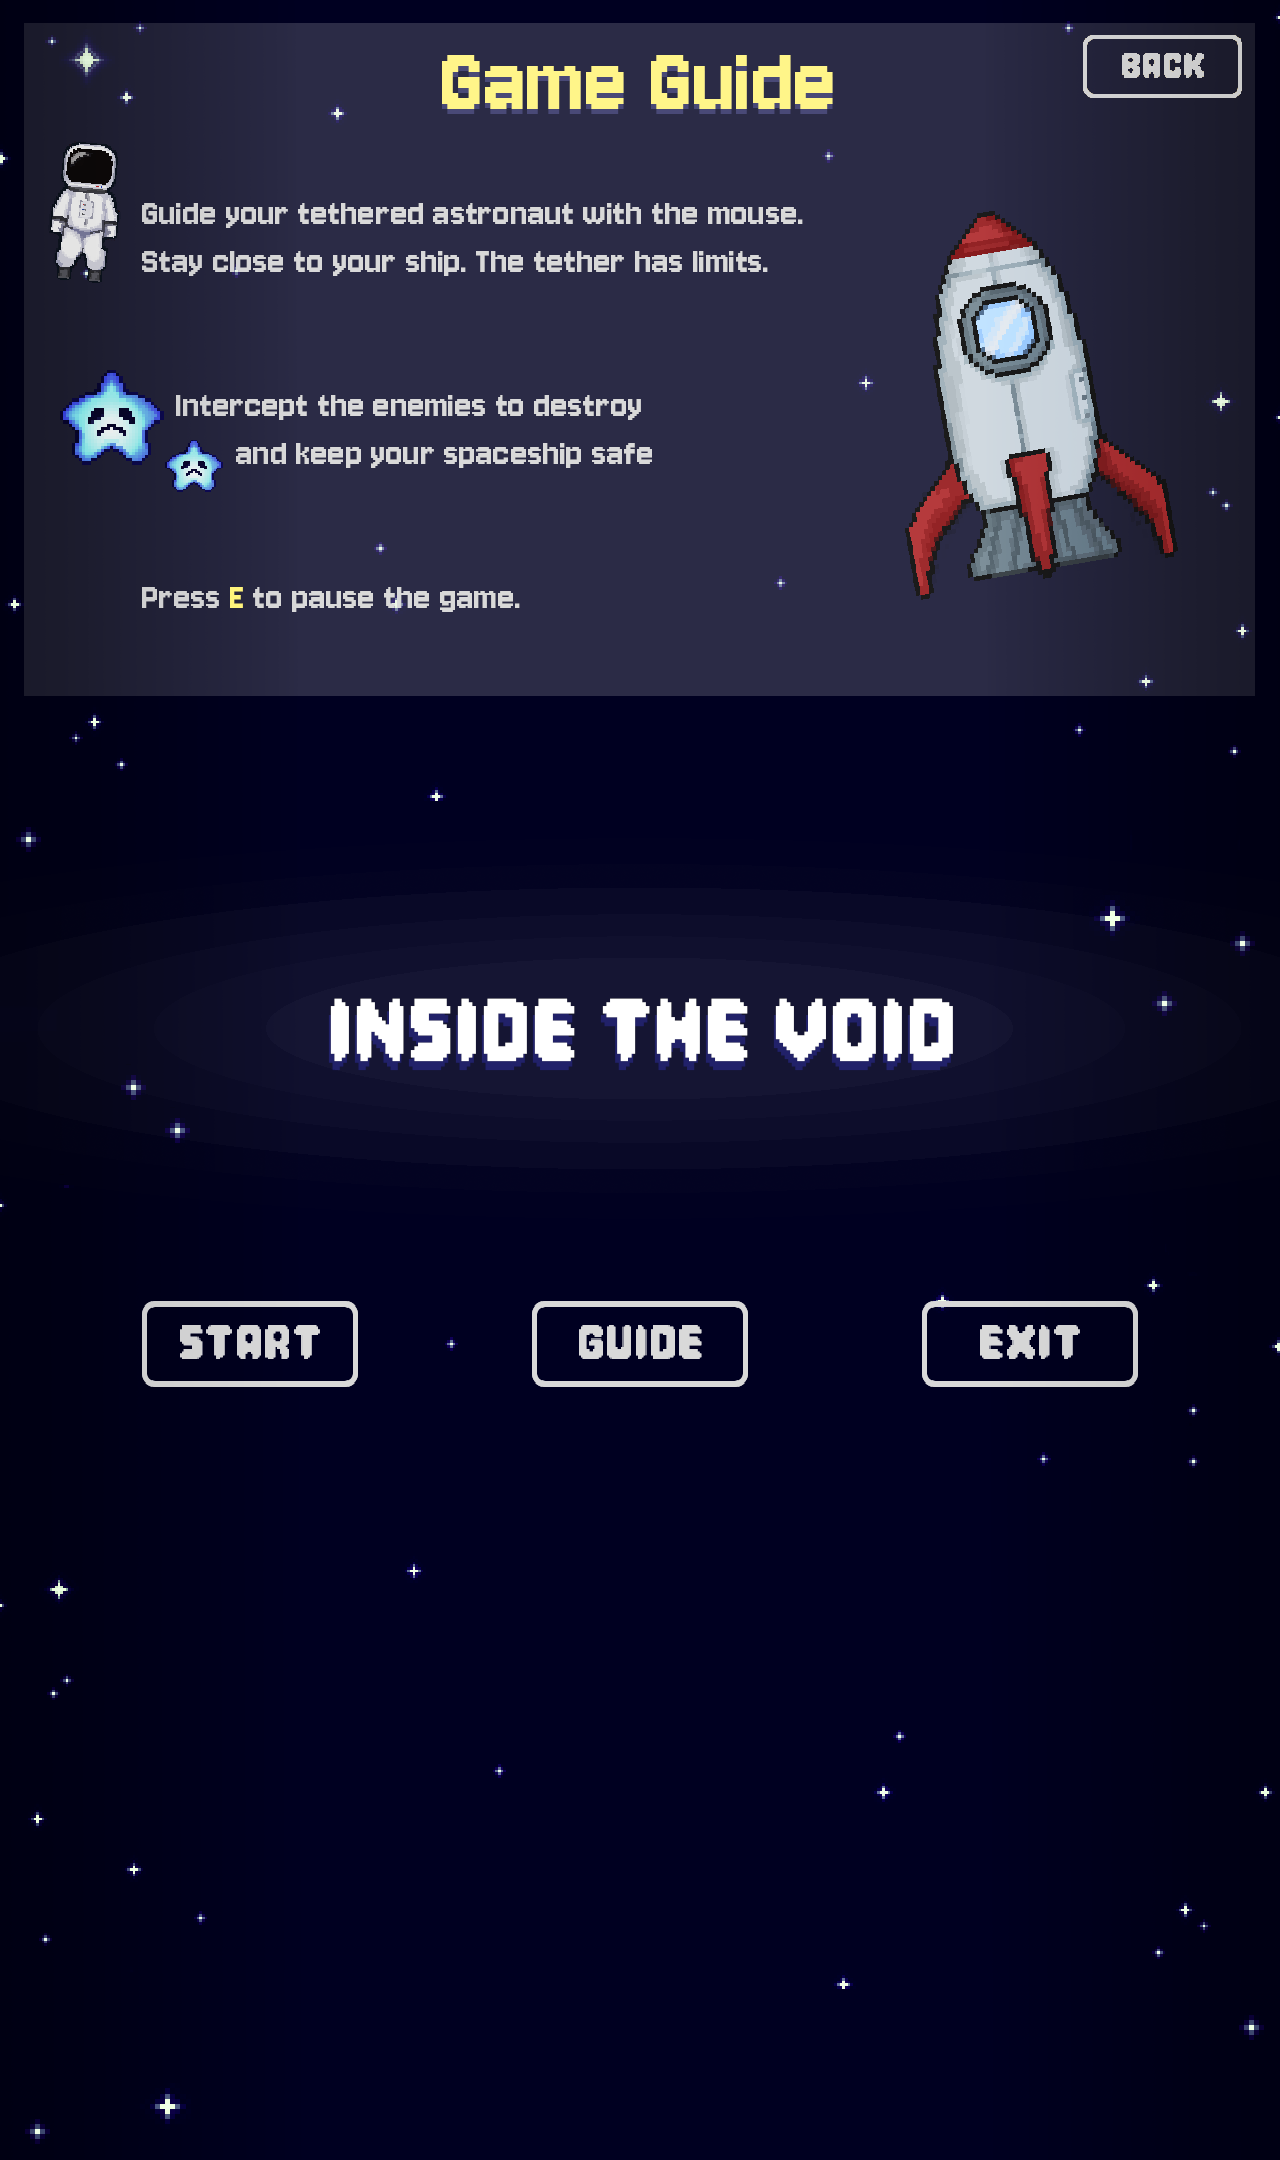
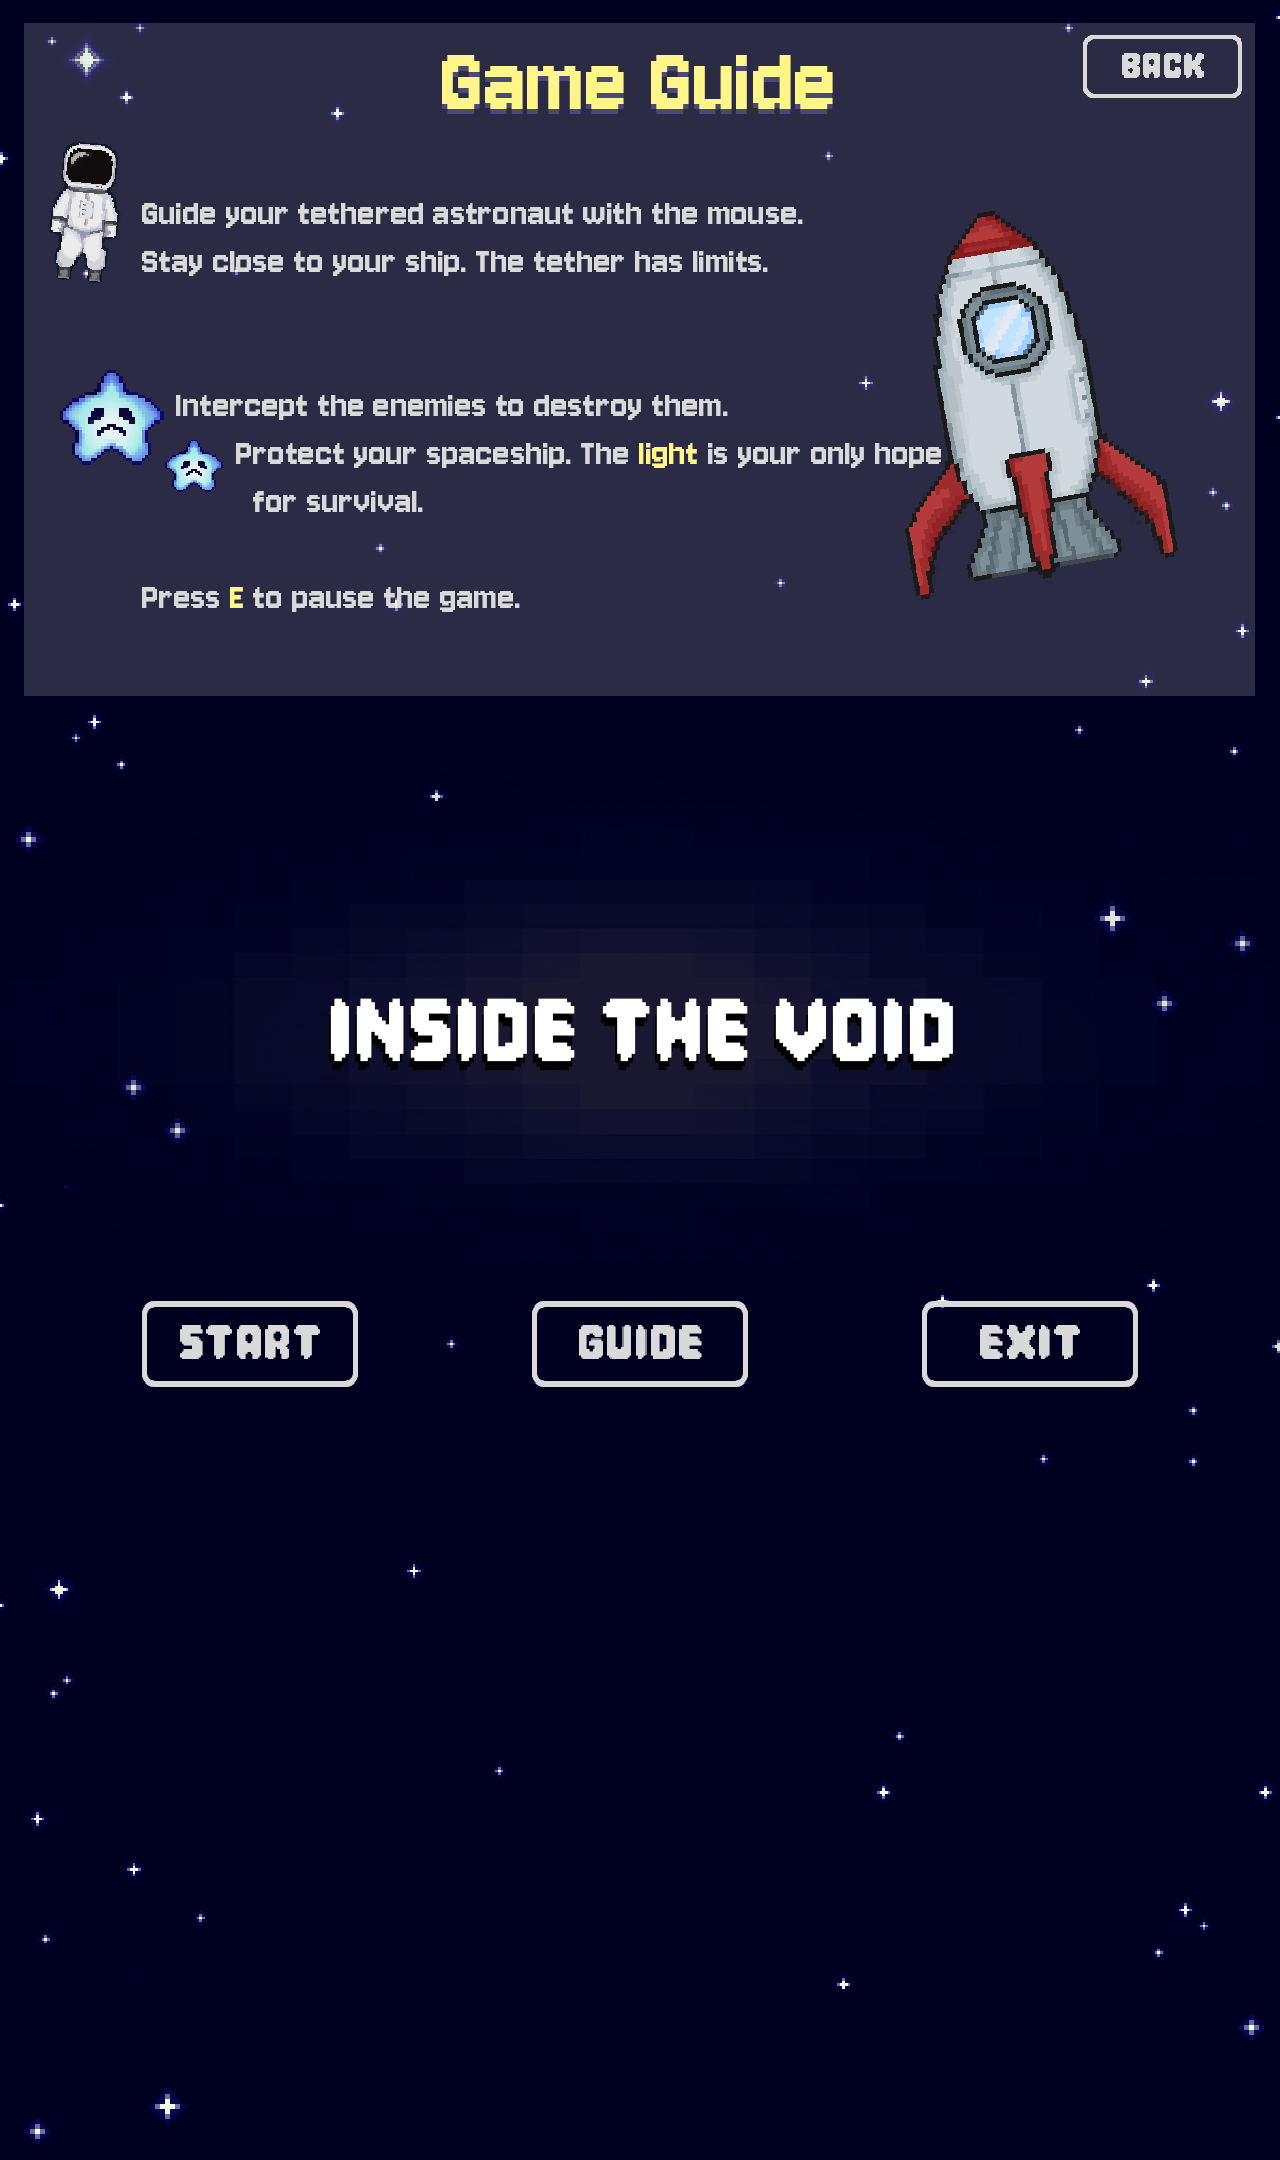
Clean up

diff --git a/NameHere/sketch.js b/NameHere/sketch.js
@@ -29,6 +29,7 @@ let enemySpawnDistance = 80; // Prevents overlap
 let spaceship;
 let spaceshipHitBoxSize = 20;
 let spaceshipHealth = 10;
+let maxSpaceshipHealth = 10;
 let playerHitBoxSize = 30;
 let player;
 let lastSpawnFrame = 0;
@@ -36,6 +37,10 @@ let ropeConstrainLength = 120;
 let ropeSmoothness = 0.25;
 let looseRopeAmount = 1;
 let ropeWiggleAmount = 5;
+let overlayAlpha = 0;
+let overlayTargetAlpha = 0;
+let titleGlowAlpha = 0;
+let titleGlowTarget = 180;
 // Assets 
 let mainMenuImg;
 let selectedMainMenuImg;
@@ -51,6 +56,9 @@ let noBG;
 let spaceshipImgs = [];
 let enemyImg;
 let playerImg;
+let titleImg;
+let titleGlowImg;
+let overlayImg;
 // Audio
 let bgMusic;
 let enemyHitSound;
@@ -61,10 +69,13 @@ let uiHoverSound;
 
 // -- Preload Images -- // 
 function preload(){
-// Backgrounds  
+// Backgrounds & Overlays  
  mainMenuImg = loadImage("assets/Main_Menu.png");
  selectedMainMenuImg = loadImage("assets/Main_Menu_Selection.png");
  pauseMenuImg = loadImage("assets/Pause_Menu.png");
+ titleImg = loadImage("assets/Main_Menu_Title.png");
+ titleGlowImg = loadImage("assets/Title_Glowing.png");
+ overlayImg = loadImage("assets/Glowing.png");
 // Buttons 
  startBG = loadImage("assets/Start_Button_Glow.png");
  instructionBG = loadImage("assets/Instruct_Button_Glow.png");
@@ -81,7 +92,6 @@ function preload(){
  spaceshipImgs[3] = loadImage("assets/spaceship_Stage4.png");
  enemyImg = loadImage("assets/Enemy.png");
  playerImg = loadImage("assets/player.png");
-
  //Audio
  bgMusic = loadSound("assets/backgroundaudio.mp3");
  enemyHitSound = loadSound("assets/enemycollision.mp3")
@@ -118,6 +128,34 @@ function draw() {
 
 
 //  Menus //
+function mainMenuState() {
+  imageMode(CORNER);
+  image(mainMenuImg, 0, 0, width, height, 0, cameraY, width, height);
+  updateTitleGlow();
+
+  push();
+  tint(255, titleGlowAlpha);
+  imageMode(CORNER);
+  image(titleGlowImg, 0, 0, width, height, 0, cameraY, width, height); 
+  pop();
+
+  imageMode(CORNER); // Title on top
+  image(titleImg, 0, 0, width, height, 0, cameraY, width, height);
+
+  if (gameState !== "mainMenu") return;
+  mainMenuButtons = [
+    new button(250, 624, 219, 88, startBG, "start"),
+    new button(640, 624, 219, 88, instructionBG, "instruct"),
+    new button(1030, 624, 219, 88, exitBG, "exit")
+  ];
+
+  for (let btn of mainMenuButtons) {
+    btn.update();
+    btn.show();
+    debugDraw(btn);
+  }
+}
+
 function InstructionsMenuState() {
   imageMode(CORNER);
   image(mainMenuImg, 0, 0, width, height, 0, cameraY, width, height);
@@ -128,21 +166,19 @@ function InstructionsMenuState() {
   debugDraw(backButton);
 }
 
-function mainMenuState() {
+function menuTransitions() {
   imageMode(CORNER);
   image(mainMenuImg, 0, 0, width, height, 0, cameraY, width, height);
-  if (gameState !== "mainMenu") return;
 
-  mainMenuButtons = [ // Main menu buttons position --------------> 
-  new button(250, 624, 219, 88, startBG, "start"),
-  new button(640, 624, 219, 88, instructionBG, "instruct"),
-  new button(1030, 624, 219, 88, exitBG, "exit")
-  ];
-
-  for (let btn of mainMenuButtons) {
-   btn.update();
-   btn.show();
-   debugDraw(btn);
+  cameraY = lerp(cameraY, targetY, menuTransitionSpeed);
+  if (abs(cameraY - targetY) < 1) {
+  if (targetY === gameYPos) {
+  gameState = "game";
+    } else if (targetY === instructYPos) {
+      gameState = "instructions";
+    } else {
+      gameState = "mainMenu";
+    }
   }
 }
 
@@ -162,23 +198,6 @@ image(pauseMenuImg, width / 2, height / 2, 442, 200); // Pause menu image positi
   debugDraw(pauseNoButton);
 }
 
-function menuTransitions() {
-  imageMode(CORNER);
-  image(mainMenuImg, 0, 0, width, height, 0, cameraY, width, height);
-
-  cameraY = lerp(cameraY, targetY, menuTransitionSpeed);
-  if (abs(cameraY - targetY) < 1) {
-  if (targetY === gameYPos) {
-  gameState = "game";
-    } else if (targetY === instructYPos) {
-      gameState = "instructions";
-    } else {
-      gameState = "mainMenu";
-    }
-  }
-}
-
-
 // Game Logic //
 function startGame() {
   gameStarted = true;
@@ -187,6 +206,8 @@ function startGame() {
     bgMusic.setVolume(Volume);
     bgMusic.play();
   }
+  overlayAlpha = 0;
+  overlayTargetAlpha = 120;
   lastSpawnFrame = frameCount; 
   spaceship = new playerSpaceship(width / 2, height / 2);
   player = new tetheredPlayer(width / 2, height / 2);
@@ -250,16 +271,22 @@ image(selectedMainMenuImg, 0, 0, 1280, 720);
       spaceshipDamageSound.play();
       enemies.splice(i, 1); // Remove enemy on ship collision
       spaceshipHealth--; 
-      if (spaceshipHealth <= 0) {
-    gameStarted = false;
-    gameState = "transition";
-    targetY = menuYPos;
+   if (spaceshipHealth <= 0) {
+   overlayTargetAlpha = 0; // Fade out
+
+    setTimeout(() => {
+     gameStarted = false;
+     gameState = "transition";
+     targetY = menuYPos;
+     }, 500); // Delay so fade can happen
     }
+   }
   }
-  }
+  updateOverlay();
+  drawOverlay();
 }
 
-// Enemy //
+// Enemy & Health //
 function spawnEnemy() {
   let newEnemy;
   let validSpawn = false; 
@@ -283,9 +310,45 @@ function spawnEnemy() {
 function getDamageStage(health) {
   if (health >= 8) return 0;
   else if (health >= 5) return 1;
-  else if (health >= 2) return 2;
+  else if (health >= 1) return 2;
   else return 3;
 }
+
+// Effects //
+function updateOverlay() {
+  let healthRatio = spaceshipHealth / maxSpaceshipHealth;  // Health ratio (0 → 1)
+  let healthBasedAlpha = map(healthRatio, 0, 1, 10, 120); // Map health to brightness (burning out effect)
+  let finalTarget = min(overlayTargetAlpha, healthBasedAlpha);   // Blend with target (for fade in/out still working)
+  overlayAlpha = lerp(overlayAlpha, finalTarget, 0.05); // Smooth fade
+
+  // Flicker (stronger when dying = unstable light)
+  let flickerStrength = map(healthRatio, 0, 1, 2, 3);
+  if (overlayAlpha > 5) {
+    let flicker = random(-flickerStrength, flickerStrength);
+    overlayAlpha = constrain(overlayAlpha + flicker, 0, 255);
+  }
+}
+
+function drawOverlay() {
+  if (!overlayImg || !spaceship) return;
+
+  push();
+  tint(255, overlayAlpha);
+  imageMode(CORNER);
+  // Calculate vertical offset from ship movement & offset
+  let offsetY = spaceship.y - spaceship.baseY;
+  image(overlayImg, 0, offsetY * 0.5, width, height);
+  pop();
+}
+
+function updateTitleGlow() {
+  titleGlowAlpha = lerp(titleGlowAlpha, titleGlowTarget, 0.05); // Smooth fade toward target
+
+  // Flicker effect
+  let flicker = random(-10, 5);
+  titleGlowAlpha = constrain(titleGlowAlpha + flicker, 0, 180);
+}
+
 // Debug Mode //
 function debugDraw(obj) {
   if (!debugMode) return;
@@ -293,6 +356,7 @@ function debugDraw(obj) {
     obj.debug();
   }
 }
+
 
 // -- Inputs -- //
 function mousePressed() { 
@@ -344,11 +408,7 @@ function keyPressed() {
   if (gameState === "game" && (key === 'e' || key === 'E')) {
     isPaused = !isPaused;
 
-    if (isPaused) {
-      bgMusic.pause();
-    } else {
-      bgMusic.Play();
-    }
+ 
   }
 }
 